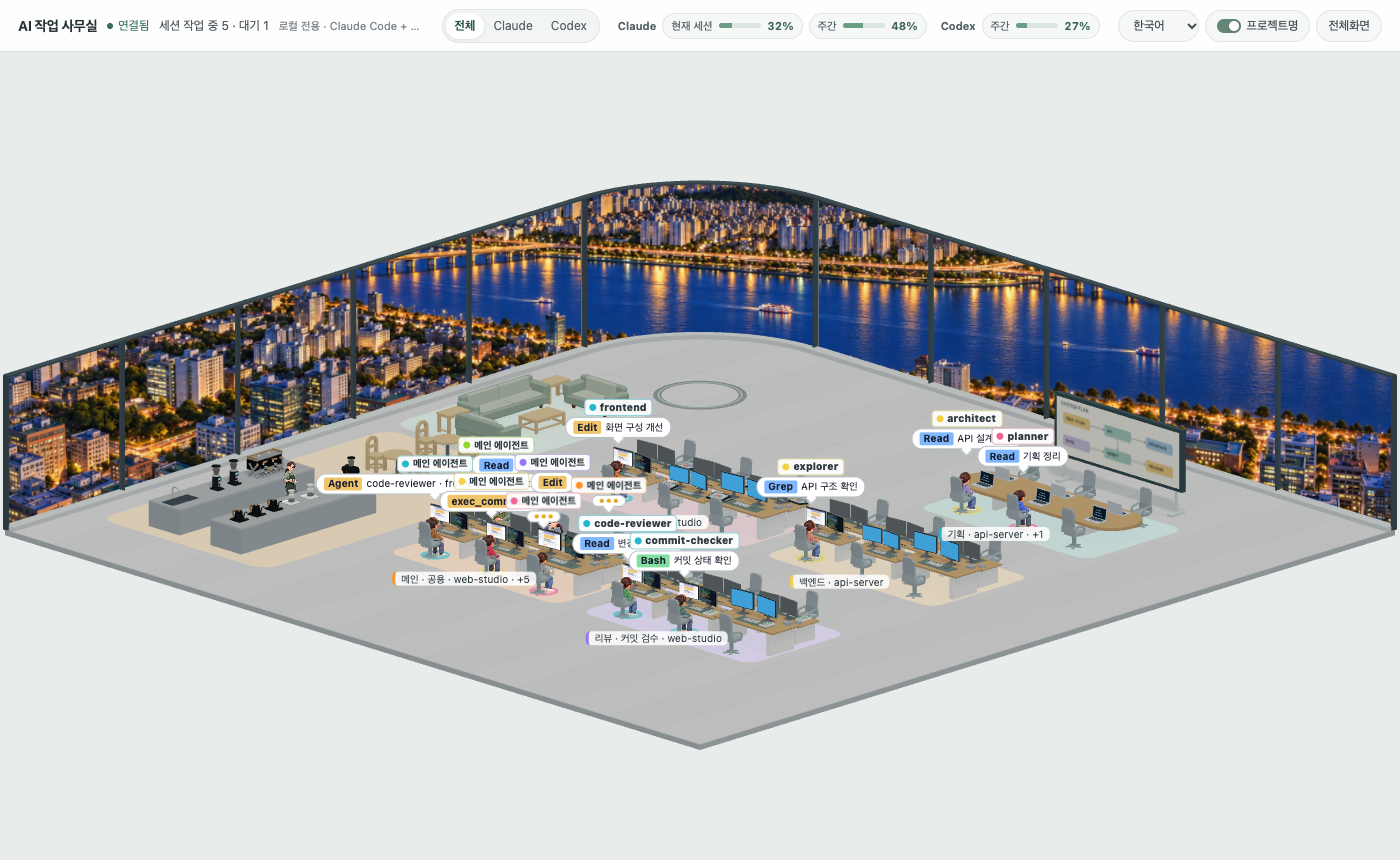
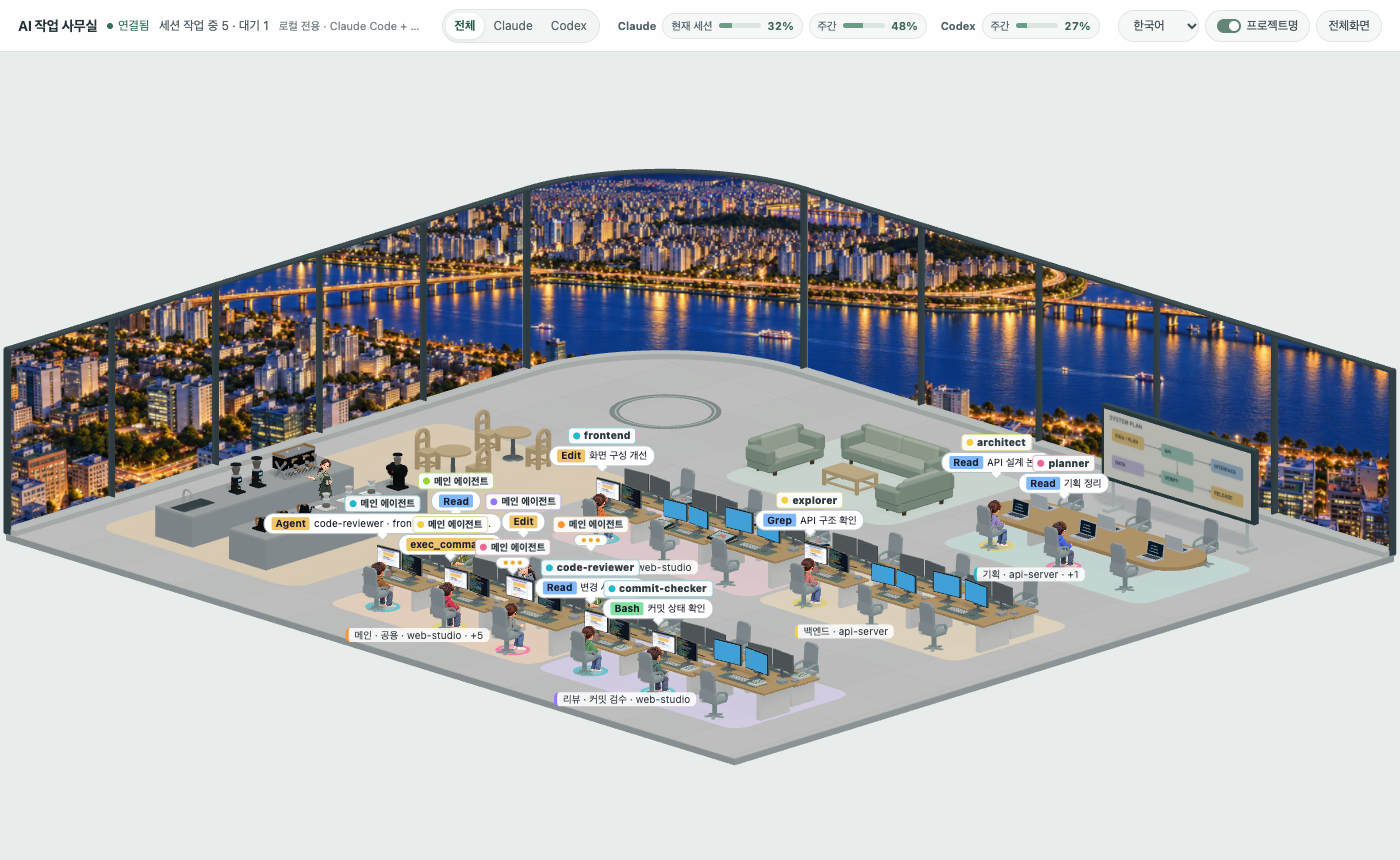
Refine office layout and update screenshots

diff --git a/src/agent-office/layout.ts b/src/agent-office/layout.ts
@@ -21,24 +21,24 @@ export const CAFE = {
   counterX: BAR_CENTER_X - (BAR_OUTER_HALF_WIDTH + BAR_INNER_HALF_WIDTH) / 2,
   cupX: BAR_CENTER_X + (BAR_OUTER_HALF_WIDTH + BAR_INNER_HALF_WIDTH) / 2,
   counterDepth: BAR_OUTER_HALF_WIDTH - BAR_INNER_HALF_WIDTH,
-  z: 13.1,
-  startZ: 12.5,
+  z: 9.85,
+  startZ: 9.25,
   outerHalfWidth: BAR_OUTER_HALF_WIDTH,
   innerHalfWidth: BAR_INNER_HALF_WIDTH,
-  frontZ: 16,
+  frontZ: 12.75,
   tableX: 2.85,
-  tableZ: 10.05,
+  tableZ: 6.8,
   baristaX: BAR_CENTER_X,
 }
 export const G = 0.25
-export const W = 18
-export const D = 18
+export const W = 15.75
+export const D = 14.25
 /** 뒤쪽 두 창면을 부드럽게 연결하는 곡면 유리 반지름. */
 export const WINDOW_RADIUS = 3
 export const COLS = Math.round(W / G)
 export const ROWS = Math.round(D / G)
 /** 화면 위쪽의 엘리베이터. 객실 안에서 태어나고 객실 안으로 돌아가 퇴장한다. */
-export const ELEVATOR = { x: 3.375, z: 3.375, frontX: 4.075, lobbyX: 4.625, w: 1.7, d: 1.4, h: 1.6 }
+export const ELEVATOR = { x: 2.875, z: 2.875, frontX: 3.575, lobbyX: 4.125, w: 1.7, d: 1.4, h: 1.6 }
 /** 길찾기에서 사용하는 출입 목적지(엘리베이터 객실 중심). */
 export const DOOR = { x: ELEVATOR.x, z: ELEVATOR.z }
 
@@ -47,12 +47,12 @@ export const ZONE_COUNT = 6
 export const TEAM_COLORS = ['#22b8cf', '#f5d142', '#f06595', '#94d82d', '#9775fa', '#ff922b']
 /** 구역 왼쪽 위(북서) 모서리 */
 export const ZONE_ORIGIN: { x: number; z: number }[] = [
-  { x: 11, z: 3.25 }, // 기획
-  { x: 11, z: 7.25 }, // 백엔드
-  { x: 6, z: 7.25 }, // 디자인
-  { x: 6, z: 2.5 }, // 비어 있는 구역
-  { x: 11, z: 12 }, // 리뷰·배포
-  { x: 6, z: 12 }, // 공용
+  { x: 10.5, z: 2.5 }, // 기획
+  { x: 10.5, z: 6.5 }, // 백엔드
+  { x: 6, z: 6.5 }, // 디자인
+  { x: 6, z: 1.75 }, // 비어 있는 구역
+  { x: 10.5, z: 11.25 }, // 리뷰·배포
+  { x: 6, z: 11.25 }, // 공용
 ]
 export const ZONE_SIZE = { w: 4.4, d: 2.55 }
 const COL_X = [0.65, 2.11, 3.57]
@@ -158,20 +158,19 @@ const LOUNGE_SCALE = 1.35
  */
 const SOFA_SX = 2.0
 const CHAIR_SX = 2.6
-/** 소파 중심 z. 커피바의 티테이블과 약 1칸의 통로를 두고 휴게 공간을 이어 배치한다 */
-const SOFA_Z = 6.75
-/** 소파를 유리에서 띄워 파노라마 창을 가리지 않게 한다 */
-const SOFA_CENTER_X = 1.65
-/** 소파는 창을 등지고 사무실 안쪽(+x)을 본다 */
-const SOFA_YAW = Math.PI / 2
+/** 기획 구역 옆 빈 공간의 휴게 좌석 중심. */
+const SOFA_Z = 2.5
+const SOFA_CENTER_X = 7.5
+/** 시계 방향으로 90도 돌린 휴게 공간은 +z 방향을 본다. */
+const SOFA_YAW = 0
 /** 앉은 사람의 원점이 방석 앞 가장자리에서 얼마나 뒤인가(월드 단위). 엉덩이가 등받이를 뚫지 않고 무릎이 방석 앞으로 나오게 맞춘 값 */
 export const SOFA_SIT_BACK = 0.225
-/** 소파 중심에서 앞 가장자리까지의 x 좌표 */
-const SOFA_FRONT = SOFA_CENTER_X + (LOUNGE_MODEL.d * LOUNGE_SCALE) / 2
-/** 1인용 의자 두 개: 커피 테이블을 마주 본다. 의자 rot 이 곧 앉는 사람의 yaw 다 */
+/** 소파 중심에서 앞 가장자리까지의 z 좌표 */
+const SOFA_FRONT = SOFA_Z + (LOUNGE_MODEL.d * LOUNGE_SCALE) / 2
+/** 1인용 의자 두 개가 커피 테이블을 마주 본다. */
 const CHAIRS = [
-  { x: SOFA_CENTER_X + 1, z: SOFA_Z - 1.4, rot: 0 },
-  { x: SOFA_CENTER_X + 1, z: SOFA_Z + 1.4, rot: Math.PI },
+  { x: SOFA_CENTER_X + 1.4, z: SOFA_Z + 1, rot: -Math.PI / 2 },
+  { x: SOFA_CENTER_X - 1.4, z: SOFA_Z + 1, rot: Math.PI / 2 },
 ]
 
 /** 티테이블 원목 의자(chairRounded, 배율 1.4)의 방석 윗면 높이. 모델 방석 윗면 0.22 를 잰 값 */
@@ -566,7 +565,7 @@ function build(): OfficeLayout {
   put({ model: 'pottedPlant', x: 4.2, z: 0, wall: 'N', s: 1.3 })
 
   // ── 휴게 공간(통유리 앞, 유리에서 떨어뜨려 배치) ──
-  const rug = { x: SOFA_CENTER_X + 0.85, z: SOFA_Z, r: 1.15 }
+  const rug = { x: SOFA_CENTER_X, z: SOFA_Z + 0.85, r: 1.15 }
   put({
     model: 'loungeSofa',
     x: SOFA_CENTER_X,
@@ -578,44 +577,36 @@ function build(): OfficeLayout {
   // 방석 안쪽 폭을 두 칸으로 나눠 각 칸 가운데에 앉는다
   const sofaSeatW = ((SOFA_MODEL_W - 2 * LOUNGE_MODEL.arm) * SOFA_SX) / 2
   const sofaSeats: SofaSeat[] = [-1, 1].map((side, i) => {
-    const z = SOFA_Z + (side * sofaSeatW) / 2
+    const x = SOFA_CENTER_X + (side * sofaSeatW) / 2
     return {
       id: `sofa-${i}`,
-      x: SOFA_FRONT - SOFA_SIT_BACK,
-      z,
+      x,
+      z: SOFA_FRONT - SOFA_SIT_BACK,
       yaw: SOFA_YAW,
-      cx: cellCenter(cellOf(SOFA_FRONT) + 1),
-      cz: cellCenter(cellOf(z)),
+      cx: cellCenter(cellOf(x)),
+      cz: cellCenter(cellOf(SOFA_FRONT) + 1),
       seatTop: LOUNGE_MODEL.seatTop * LOUNGE_SCALE,
     }
   })
-  put({ model: 'tableCoffee', x: SOFA_CENTER_X + 1, z: SOFA_Z, rot: Math.PI / 2, s: 1.15 })
+  put({ model: 'tableCoffee', x: SOFA_CENTER_X, z: SOFA_Z + 1, rot: 0, s: 1.15 })
   const chairHalfD = (LOUNGE_MODEL.d * LOUNGE_SCALE) / 2
   const chairSeats: SofaSeat[] = CHAIRS.map((c, i) => {
     put({ model: 'loungeChair', x: c.x, z: c.z, rot: c.rot, s: LOUNGE_SCALE, sx: CHAIR_SX })
-    // rot 0 은 +z, rot π 는 -z 를 본다. 앞 가장자리에서 SOFA_SIT_BACK 뒤에 앉고, 앞 칸에서 걸어 들어간다
-    const dir = Math.cos(c.rot) > 0 ? 1 : -1
-    const front = c.z + dir * chairHalfD
+    const dir = Math.sin(c.rot) > 0 ? 1 : -1
+    const front = c.x + dir * chairHalfD
     return {
       id: `chair-${i}`,
-      x: c.x,
-      z: front - dir * SOFA_SIT_BACK,
+      x: front - dir * SOFA_SIT_BACK,
+      z: c.z,
       yaw: c.rot,
-      cx: cellCenter(cellOf(c.x)),
-      cz: cellCenter(cellOf(front) + dir),
+      cx: cellCenter(cellOf(front) + dir),
+      cz: cellCenter(cellOf(c.z)),
       seatTop: LOUNGE_MODEL.seatTop * LOUNGE_SCALE,
     }
   })
-  // 소파 양옆 협탁(소파 중심 ±1.3). 모델 깊이(0.22)가 얕아 위 소품이 떨어질 듯 보여 깊이만 1.6배(0.35)로 늘린다.
-  put({ model: 'sideTable', x: SOFA_CENTER_X, z: SOFA_Z + 1.3, rot: Math.PI / 2, s: 1.0, sz: 1.6 })
-  put({ model: 'lampRoundTable', x: SOFA_CENTER_X, z: SOFA_Z + 1.3, y: 0.38 })
-  put({ model: 'sideTable', x: SOFA_CENTER_X, z: SOFA_Z - 1.3, rot: Math.PI / 2, s: 1.0, sz: 1.6 })
   // 소파 방석 두 자리에 사람이 앉으므로 곰 인형·쿠션은 소파 앞 가장자리 칸(x 0.5~0.75)에 둔다. 바닥 소품은 이동 막힘에서 빠지므로 몸체가 소파 출구 열(x 0.75~1.0)로 넘치면 걸어 나오는 캐릭터가 뚫고 지나간다. 곰은 몸체 x 폭이 0.17 이라 중심을 0.66 에, 쿠션은 회전 뒤 x 폭이 0.063 이라 0.71 에 둔다(0.71+0.0315 < 0.75)
-  put({ model: 'bear', x: SOFA_CENTER_X - 0.04, z: SOFA_Z - 0.85, y: 0.02, rot: Math.PI / 2, s: 0.7 })
-  put({ model: 'pillowBlue', x: SOFA_CENTER_X + 0.01, z: SOFA_Z + 0.85, y: 0.02, rot: Math.PI / 2 })
-  put({ model: 'plantSmall3', x: SOFA_CENTER_X + 1, z: SOFA_Z, y: 0.27, s: 1.0 })
-  // 소파와 입구 통로 사이에 스탠드 조명, 창 끝에는 화분을 둔다
-  put({ model: 'lampRoundFloor', x: SOFA_CENTER_X - 0.2, z: SOFA_Z + 2, s: 1.2 })
+  put({ model: 'bear', x: SOFA_CENTER_X + 0.85, z: SOFA_Z - 0.04, y: 0.02, rot: 0, s: 0.7 })
+  put({ model: 'pillowBlue', x: SOFA_CENTER_X - 0.85, z: SOFA_Z + 0.01, y: 0.02, rot: 0 })
   // Stand lamps at pod edges and beside the café leave the main aisles open.
   for (const { x, z } of [
     { x: CAFE.baristaX + 2.1, z: CAFE.startZ - 0.3 },
@@ -635,6 +626,7 @@ function build(): OfficeLayout {
 
   const spots: { x: number; z: number }[][] = []
   for (let z = 0; z < ZONE_COUNT; z++) {
+    if (z === 3) { spots.push([]); continue }
     const o = ZONE_ORIGIN[z]
     spots.push([
       { x: o.x + 0.9, z: o.z - 0.55 },
@@ -648,10 +640,10 @@ function build(): OfficeLayout {
   const coffeePois: Poi[] = [-0.5, 0, 0.5].map((dx) => ({ x: CAFE.baristaX + dx, z: CAFE.frontZ + 0.336, yaw: Math.PI }))
   // 휴게 공간(소파가 다 찼을 때 서 있는 자리)
   const loungePois: Poi[] = [
-    { x: SOFA_CENTER_X + 2.2, z: SOFA_Z, yaw: -Math.PI / 2 },
-    { x: SOFA_CENTER_X + 2.2, z: SOFA_Z - 1.3, yaw: Math.PI / 2 },
-    { x: SOFA_CENTER_X + 2.05, z: SOFA_Z + 1.2, yaw: -Math.PI / 2 },
-    { x: SOFA_CENTER_X + 0.5, z: SOFA_Z + 2.1, yaw: -Math.PI / 2 },
+    { x: SOFA_CENTER_X, z: SOFA_Z + 2.2, yaw: Math.PI },
+    { x: SOFA_CENTER_X + 1.3, z: SOFA_Z + 2.2, yaw: 0 },
+    { x: SOFA_CENTER_X - 1.2, z: SOFA_Z + 2.05, yaw: Math.PI },
+    { x: SOFA_CENTER_X - 2.1, z: SOFA_Z + 0.5, yaw: Math.PI },
   ]
   const pois: Poi[] = [
     // 창 앞 공용 통로
@@ -665,9 +657,9 @@ function build(): OfficeLayout {
     { x: CAFE.baristaX + 2.15, z: CAFE.z - 1.5, yaw: -Math.PI / 2 },
     ...loungePois,
     // 통로
-    { x: 10.1, z: 6.4, yaw: 0 },
-    { x: 4.1, z: 8.4, yaw: 0 },
-    { x: W - 0.6, z: 4.4, yaw: -Math.PI / 2 },
+    { x: 10.1, z: 5.65, yaw: 0 },
+    { x: 4.1, z: 7.65, yaw: 0 },
+    { x: W - 0.6, z: 5.25, yaw: -Math.PI / 2 },
   ]
 
   const shelfBooks = buildShelfBooks(items)

diff --git a/src/agent-office/__tests__/layout.spec.ts b/src/agent-office/__tests__/layout.spec.ts
@@ -42,6 +42,18 @@ describe('사무실 배치', () => {
     }
   })
 
+  it('축소한 바닥에 업무 책상과 기획 회의 테이블이 여유를 두고 들어간다', () => {
+    for (const desk of LAYOUT.items.filter(item => item.model === 'desk')) {
+      const halfWidth = 0.73 * (desk.sx ?? desk.s ?? 1) / 2
+      const halfDepth = 0.56 * (desk.sz ?? desk.s ?? 1) / 2
+      expect(desk.x - halfWidth).toBeGreaterThan(0.1)
+      expect(desk.x + halfWidth).toBeLessThan(W - 0.1)
+      expect(desk.z - halfDepth).toBeGreaterThan(0.1)
+      expect(desk.z + halfDepth).toBeLessThan(D - 0.1)
+    }
+    expect(ZONE_ORIGIN[0].x + 2.11 + 4.25 / 2 + 0.008).toBeLessThan(W - 0.1)
+  })
+
   it('자리마다 듀얼 디스플레이이 넓힌 책상 안에 들어가고 서로 겹치지 않는다', () => {
     const SCREEN_W = 0.393 // computerScreen 모델 폭(스케일 1)
     const DESK_W = 0.73 // FOOT.desk 폭(스케일 1)
@@ -177,11 +189,11 @@ describe('휴게 공간', () => {
     expect(LAYOUT.sofaSeats).toHaveLength(2)
     const [a, b] = LAYOUT.sofaSeats
     // 앉은 캐릭터는 팔까지 몸 중심에서 ±0.37 라서 두 자리 간격이 0.74 를 넘어야 서로 겹치지 않는다
-    expect(Math.abs(a.z - b.z)).toBeGreaterThan(0.76)
+    expect(Math.abs(a.x - b.x)).toBeGreaterThan(0.76)
     const sofa = LAYOUT.items.find((item) => item.model === 'loungeSofa')!
     for (const s of LAYOUT.sofaSeats) {
-      expect(s.x).toBeGreaterThan(sofa.x - 0.14 + 0.19)
-      expect(s.x).toBeLessThan(sofa.x + 0.27675)
+      expect(s.z).toBeGreaterThan(sofa.z - 0.14 + 0.19)
+      expect(s.z).toBeLessThan(sofa.z + 0.27675)
       expect(LAYOUT.blocked.has(key(cellOf(s.cx), cellOf(s.cz)))).toBe(false)
     }
   })
@@ -194,9 +206,9 @@ describe('휴게 공간', () => {
       const chair = chairs[i]
       expect(seat.yaw).toBeCloseTo(chair.rot ?? 0)
       // 앉은 자리는 의자 중심에서 앞쪽으로 치우치되 방석(앞 가장자리) 안이다
-      const dz = (seat.z - chair.z) * Math.cos(seat.yaw)
-      expect(dz).toBeGreaterThan(0)
-      expect(dz).toBeLessThan((0.41 * 1.35) / 2)
+      const forward = (seat.x - chair.x) * Math.sin(seat.yaw) + (seat.z - chair.z) * Math.cos(seat.yaw)
+      expect(forward).toBeGreaterThan(0)
+      expect(forward).toBeLessThan((0.41 * 1.35) / 2)
       expect(LAYOUT.blocked.has(key(cellOf(seat.cx), cellOf(seat.cz)))).toBe(false)
     })
   })
@@ -265,7 +277,7 @@ describe('창 앞 배치', () => {
     expect(LAYOUT.items.some((item) => ['wall', 'wallDoorway', 'wallWindow', 'kitchenCabinetUpper'].includes(item.model))).toBe(false)
     for (const window of LAYOUT.windows) {
       expect(window.h).toBe(1.29 * WALL_SY)
-      expect(window.w / ((window.mullions ?? 0) + 1)).toBe(3)
+      expect(window.w / ((window.mullions ?? 0) + 1)).toBeLessThanOrEqual(3)
     }
   })
 })

diff --git a/src/agent-office/__tests__/windowGeometry.spec.ts b/src/agent-office/__tests__/windowGeometry.spec.ts
@@ -3,9 +3,9 @@ import { curvedTrimGeometry, curvedWindowGeometry, windowArc } from '../windowGe
 import { WINDOW_RADIUS, W, D, LAYOUT, cellOf, key } from '../layout'
 
 describe('완만한 코너 창문', () => {
-  it('정사각형의 두 직선 창면과 곡면 끝이 연결된다', () => {
-    expect(W).toBe(18)
-    expect(D).toBe(18)
+  it('두 직선 창면과 곡면 끝이 연결된다', () => {
+    expect(W).toBe(15.75)
+    expect(D).toBe(14.25)
     const points = windowArc(WINDOW_RADIUS)
     expect(points[0].x).toBeCloseTo(0)
     expect(points[0].z).toBeCloseTo(WINDOW_RADIUS)
@@ -14,7 +14,7 @@ describe('완만한 코너 창문', () => {
     for (const window of LAYOUT.windows) {
       const center = window.wall === 'N' ? window.x! : window.z!
       expect(center - window.w / 2).toBeCloseTo(WINDOW_RADIUS)
-      expect(center + window.w / 2).toBeCloseTo(18)
+      expect(center + window.w / 2).toBeCloseTo(window.wall === 'N' ? W : D)
     }
     for (const p of points) expect(Math.hypot(p.x - WINDOW_RADIUS, p.z - WINDOW_RADIUS)).toBeCloseTo(WINDOW_RADIUS)
   })

diff --git a/src/agent-office/__tests__/roles.spec.ts b/src/agent-office/__tests__/roles.spec.ts
@@ -22,11 +22,11 @@ describe('role workspaces', () => {
   })
   it('moves and enlarges the café while keeping operations at the front center', () => {
     expect(CAFE.baristaX).toBe(2.9)
-    expect(CAFE.z).toBe(13.1)
+    expect(CAFE.z).toBe(9.85)
     expect(CAFE.baristaX - CAFE.outerHalfWidth).toBeGreaterThan(1.6)
     expect(CAFE.outerHalfWidth * 2).toBeLessThan(2.5)
     expect(CAFE.frontZ - CAFE.startZ).toBeGreaterThan(3.4)
-    expect(ZONE_ORIGIN[4]).toEqual({ x: 11, z: 12 })
+    expect(ZONE_ORIGIN[4]).toEqual({ x: 10.5, z: 11.25 })
   })
   it('faces paired workstations toward one another in every area', () => {
     for (let zone = 0; zone < 6; zone++) {

diff --git a/src/agent-office/__tests__/elevator.spec.ts b/src/agent-office/__tests__/elevator.spec.ts
@@ -65,7 +65,7 @@ describe('엘리베이터 출입', () => {
   })
 
   it('화면 위쪽 중앙의 엘리베이터에서 객실·로비를 거쳐 모든 자리까지 오갈 수 있고 객실 뒤·옆은 막혀 있다', () => {
-    expect(ELEVATOR.x).toBeCloseTo(ELEVATOR.z)
+    expect(Math.abs(ELEVATOR.z - LAYOUT.items.find(item => item.model === 'loungeSofa')!.z)).toBeLessThan(0.5)
     expect(ELEVATOR.x).toBeLessThan(4)
     for (const seat of LAYOUT.seats) {
       const path = findPath(DOOR, { x: seat.cx, z: seat.cz }, LAYOUT.blocked)

diff --git a/src/agent-office/scene.ts b/src/agent-office/scene.ts
@@ -965,7 +965,7 @@ export class OfficeScene {
 
     // Compact, softly rounded islands distinguish work pods and shared spaces.
     this.floorPatch(4.3, 7.5, 0.45, '#dfccb0', CAFE.baristaX, CAFE.z - 0.5)
-    this.floorPatch(3.15, 3.65, 0.45, '#cbd9d2', 2.15, LAYOUT.rug.z)
+    this.floorPatch(3.65, 3.15, 0.45, '#cbd9d2', LAYOUT.rug.x, LAYOUT.rug.z - 0.35)
     for (let z = 0; z < ZONE_COUNT; z++) {
       const o = ZONE_ORIGIN[z]
       const mat = this.floorPatch(ZONE_SIZE.w, ZONE_SIZE.d, 0.34, TEAM_FLOORS[z], o.x + 2.1, o.z + 0.75)

diff --git a/README.en.md b/README.en.md
@@ -15,7 +15,7 @@ The main agent types at its desk, delegated subagents work at the desks next to 
 ![Platform](https://img.shields.io/badge/macOS%20%7C%20Linux%20%7C%20Windows-lightgrey)
 ![License: MIT](https://img.shields.io/badge/License-MIT-yellow)
 
-<img src="docs/screenshot.png?v=office-screens-20261027" alt="Agent Office test scene: six sessions and six subagents in an office overlooking Seoul" width="900">
+<img src="docs/screenshot.png?v=office-compact-20261027" alt="Agent Office test scene: six sessions and six subagents in an office overlooking Seoul" width="900">
 
 <p><sub>Shown with synthetic test data: six sessions and six subagents. No real conversations or project information are included.</sub></p>
 
@@ -29,9 +29,9 @@ When you run several Claude Code or Codex sessions, the terminal alone makes it 
 
 ## Features
 
-- **Role workspaces** — The 18×18 office has five areas: planning, backend, frontend, review/commit checks, and main/shared. Each has six seats, for 30 total; up to six sessions are visible.
+- **Role workspaces** — The 15.75×14.25 office has five areas: planning, backend, frontend, review/commit checks, and main/shared. Each has six seats, for 30 total; up to six sessions are visible.
 - Seats face one another in each area. Planning has a rounded meeting table, laptops and a diagram board; design has drawing tablets and pens. Review and commit agents share an open six-computer workspace. The diagram board is decorative.
-- Planning occupies the former API area by the right-hand windows; API/backend moves into the previously empty middle-right area. The former planning area remains open.
+- The lounge sits next to planning; the café is beside the main and frontend workspaces, and the elevator is near the windows.
 - Roles use existing agentType first, then short description metadata. No additional transcript bodies or tool inputs are collected. The current Codex collector supplies no role metadata, so Codex subagents use the shared area. Other unknown roles use the shared area with priority seating for mains. Full role areas use nearby standing spots. Tool changes do not move agents; late role metadata can move an unknown agent once.
 - **Characters that show their state** — They sit and type while working, switch to a reading pose while reading files, bounce a speech bubble while waiting for you, and idle subagents wander around the office.
 - **Tool chips in speech bubbles** — The tool in use (`Bash`, `Read`, `Edit` …) and the description of the delegated task. MCP tools are shortened for readability, e.g. `playwright · take screenshot`.
@@ -88,10 +88,10 @@ Open <http://localhost:5180> in your browser, then use Claude Code or Codex as u
 - **Name tag dots and foot rings** identify sessions; **floor colors** identify roles. Clothing colors vary across agents in both 2D and 3D.
 - The two rear glass walls share an elevated view of the river, bridges and city buildings along both banks. A radius-3 curved glass corner joins the two window walls without a central upright. The broad composition balances river, bridges and city buildings without emphasizing a landmark. Recessed glazing, substantial frames and interior sills define the room edge. Compare straight windows with `?hour=18&window=square`. Day, sunset and night images blend with your clock; sunset also warms the indoor sunlight. Shared projection preserves the image proportions and a continuous horizon across both windows. The texture updates only when images load or the time changes. Use `?hour=18` for sunset or `?hour=22` for night. [Sunset](docs/screenshot-sunset.png) · [Night](docs/screenshot-night.png)
 - Desks combine rounded oak tops, white slab supports and sage desk mats, keeping the existing seating clearance and desktop height.
-- The lounge moves 2.25 units toward the café, with a clear passage to the tea tables. The sofa and armchairs use sage fabric, rounded arms, low backs, separate cushions and wooden feet, preserving seat heights and spacing.
+- The lounge has been moved beside planning and rotated, with the sofa and armchairs facing the coffee table. The sofa and armchairs use sage fabric, rounded arms, low backs, separate cushions and wooden feet, preserving seat heights and spacing.
 - The planning room sits closer to the API area, and work areas are grouped slightly to the right. Visible monitor fronts are filled first; each desktop has a slim silver keyboard, silver monitor stands and one Mac mini-style computer. Planning uses laptops, review has six open workstations, and the café has a wider, shallower bar shifted slightly left, separated tables on a wider café rug, more space between equipment, three kettles and a working barista. Stand lamps and potted plants are omitted.
 - The default characters are **2D sprites** generated from the approved concepts, with directional views, four walking phases and two typing frames, seated and coffee poses. Set `cap: true` in `AGENT_LOOKS` for a cap. `glasses: true` uses the existing 3D character; set `CHARACTER_RENDER_STYLE` to `'3d'` to restore all 3D models. [2D close-up](docs/screenshot-sprite-closeup.png) · [Cap in the office](docs/screenshot-sprite-cap.png)
-- The lounge moves 0.45 units inward from the glazing, leaving more space behind the sofa. The rug, tables, chairs, lights and seated positions move together.
+- The lounge rug, tables, chairs and seating destinations move together.
 - Meeting tables have laptops. Occupied desktop workstations show a light web view on the worker’s left and a terminal on the right. The elevator moves smoothly and arrivals exit one at a time.
 - **Mouse wheel** zooms in and out. The top-right button toggles fullscreen.
 - **Click a character or name tag** to open the detail card. Click empty space or press `Esc` to close it.

diff --git a/README.zh.md b/README.zh.md
@@ -15,7 +15,7 @@
 ![Platform](https://img.shields.io/badge/macOS%20%7C%20Linux%20%7C%20Windows-lightgrey)
 ![License: MIT](https://img.shields.io/badge/License-MIT-yellow)
 
-<img src="docs/screenshot.png?v=office-screens-20261027" alt="Agent Office 测试画面：可眺望首尔的办公室内显示六个会话和六个子智能体" width="900">
+<img src="docs/screenshot.png?v=office-compact-20261027" alt="Agent Office 测试画面：可眺望首尔的办公室内显示六个会话和六个子智能体" width="900">
 
 <p><sub>画面使用模拟测试数据，显示六个会话和六个子智能体，不包含真实对话或项目信息。</sub></p>
 
@@ -29,9 +29,9 @@
 
 ## 主要功能
 
-- **按角色划分空间** — 18×18办公室分为规划、后端、前端、审查/提交验证、主代理/公共区五区，每区六座，共30座，最多显示六个会话。
+- **按角色划分空间** — 15.75×14.25办公室分为规划、后端、前端、审查/提交验证、主代理/公共区五区，每区六座，共30座，最多显示六个会话。
 - 各区座位面对面布置。规划区有圆角会议桌、笔记本和图解白板；设计区有绘图板和笔；审查与提交代理共用开放的六台电脑工位。白板仅供装饰。
-- 规划会议区移至右侧窗边原API区域，API与后端移至中间右侧原空闲区域；原规划区保持空置。
+- 休息区位于规划区旁，咖啡吧靠近主区和前端区，电梯靠近窗边。
 - 优先依据已有agentType，再参考简短description。不会额外收集正文或工具输入。未知角色进入公共区，主代理优先使用座位。满座时在相应区旁站立。工具变化不会触发移动，迟到的角色元数据可触发一次重新分配。
 - **能看出状态的角色** — 工作时坐着打字，读取文件时换成阅读姿势，等你回复时气泡会跳动，空闲的子智能体会在办公室里走动。
 - **气泡中的工具标签** — 显示正在使用的工具（`Bash`、`Read`、`Edit` …）以及委派给智能体的任务说明。MCP 工具会缩写成易读的形式，例如 `playwright · take screenshot`。
@@ -88,10 +88,10 @@ npm run dev
 - **名牌圆点和脚下圆环**表示会话，**地板颜色**表示角色区。2D和3D角色的服装颜色随代理变化。
 - 后方两面玻璃窗共享从高层俯瞰河流、桥梁和两岸城市建筑的全景。两面窗通过半径为 3 的曲面玻璃相连，中央没有立柱遮挡，河流、桥梁与城市建筑均衡呈现，不突出特定地标。使用 `?hour=18&window=square` 可比较直角窗。加厚窗框和内侧窗台勾勒室内边界。白天、夕阳和夜景随时钟过渡，夕阳时室内日光也会变暖。统一投影保持图像比例和连续的地平线，仅在图片加载或时间变化时更新背景。使用 `?hour=18` 查看夕阳，`?hour=22` 查看夜景。[夕阳](docs/screenshot-sunset.png) · [夜景](docs/screenshot-night.png)
 - 办公桌采用圆角橡木桌面、白色板式支撑和鼠尾草绿桌垫，保留原有座位间距与桌面高度。
-- 休息区向咖啡吧移动2.25，保留通往茶桌的通道。沙发和单人椅改为鼠尾草绿布艺、圆润扶手、低靠背、独立坐垫与木脚，保持座面高度及间距。
+- 休息区移至规划区旁并旋转，沙发和单人椅围绕茶几。沙发和单人椅改为鼠尾草绿布艺、圆润扶手、低靠背、独立坐垫与木脚，保持座面高度及间距。
 - 企划会议区靠近API区，工作区适当靠拢并略向右移动，优先分配能看到显示器正面的座位。每个台式工位配一块薄银色键盘、银色显示器支架和一台Mac mini风格主机；企划使用笔记本，审核区开放并设有六个工位。咖啡吧略向画面左侧移动，加宽并缩短进深，扩大地毯覆盖茶桌，并在茶桌及设备之间留出间距，台面上设有三个水壶，咖啡师会准备咖啡，暂不摆放落地灯和盆栽。
 - 默认使用根据确认的概念图生成的 **2D精灵**，包含不同方向、四阶段行走与两帧打字、坐姿和拿咖啡姿势。在 `AGENT_LOOKS` 设置 `cap: true` 可戴帽；`glasses: true` 使用原有3D角色。将 `CHARACTER_RENDER_STYLE` 设为 `'3d'` 可恢复全部3D模型。[2D实际画面](docs/screenshot-sprite-closeup.png) · [戴帽画面](docs/screenshot-sprite-cap.png)
-- 休息区从窗边向室内移动0.45，为沙发背后留出空间；地毯、桌椅及坐姿位置同步移动。
+- 休息区的地毯、桌椅与坐姿位置同步移动。
 - 设计工位的键盘居中，绘图板和笔放在就坐者左侧；面对面的两排工位按各自朝向镜像布置。
 - 会议桌使用笔记本电脑。工作中的桌面工位从就坐者视角看左边显示明亮的网页，右边显示终端。电梯平稳升降，角色依次离开。
 - 用**鼠标滚轮**缩放，右上角的按钮切换全屏。
